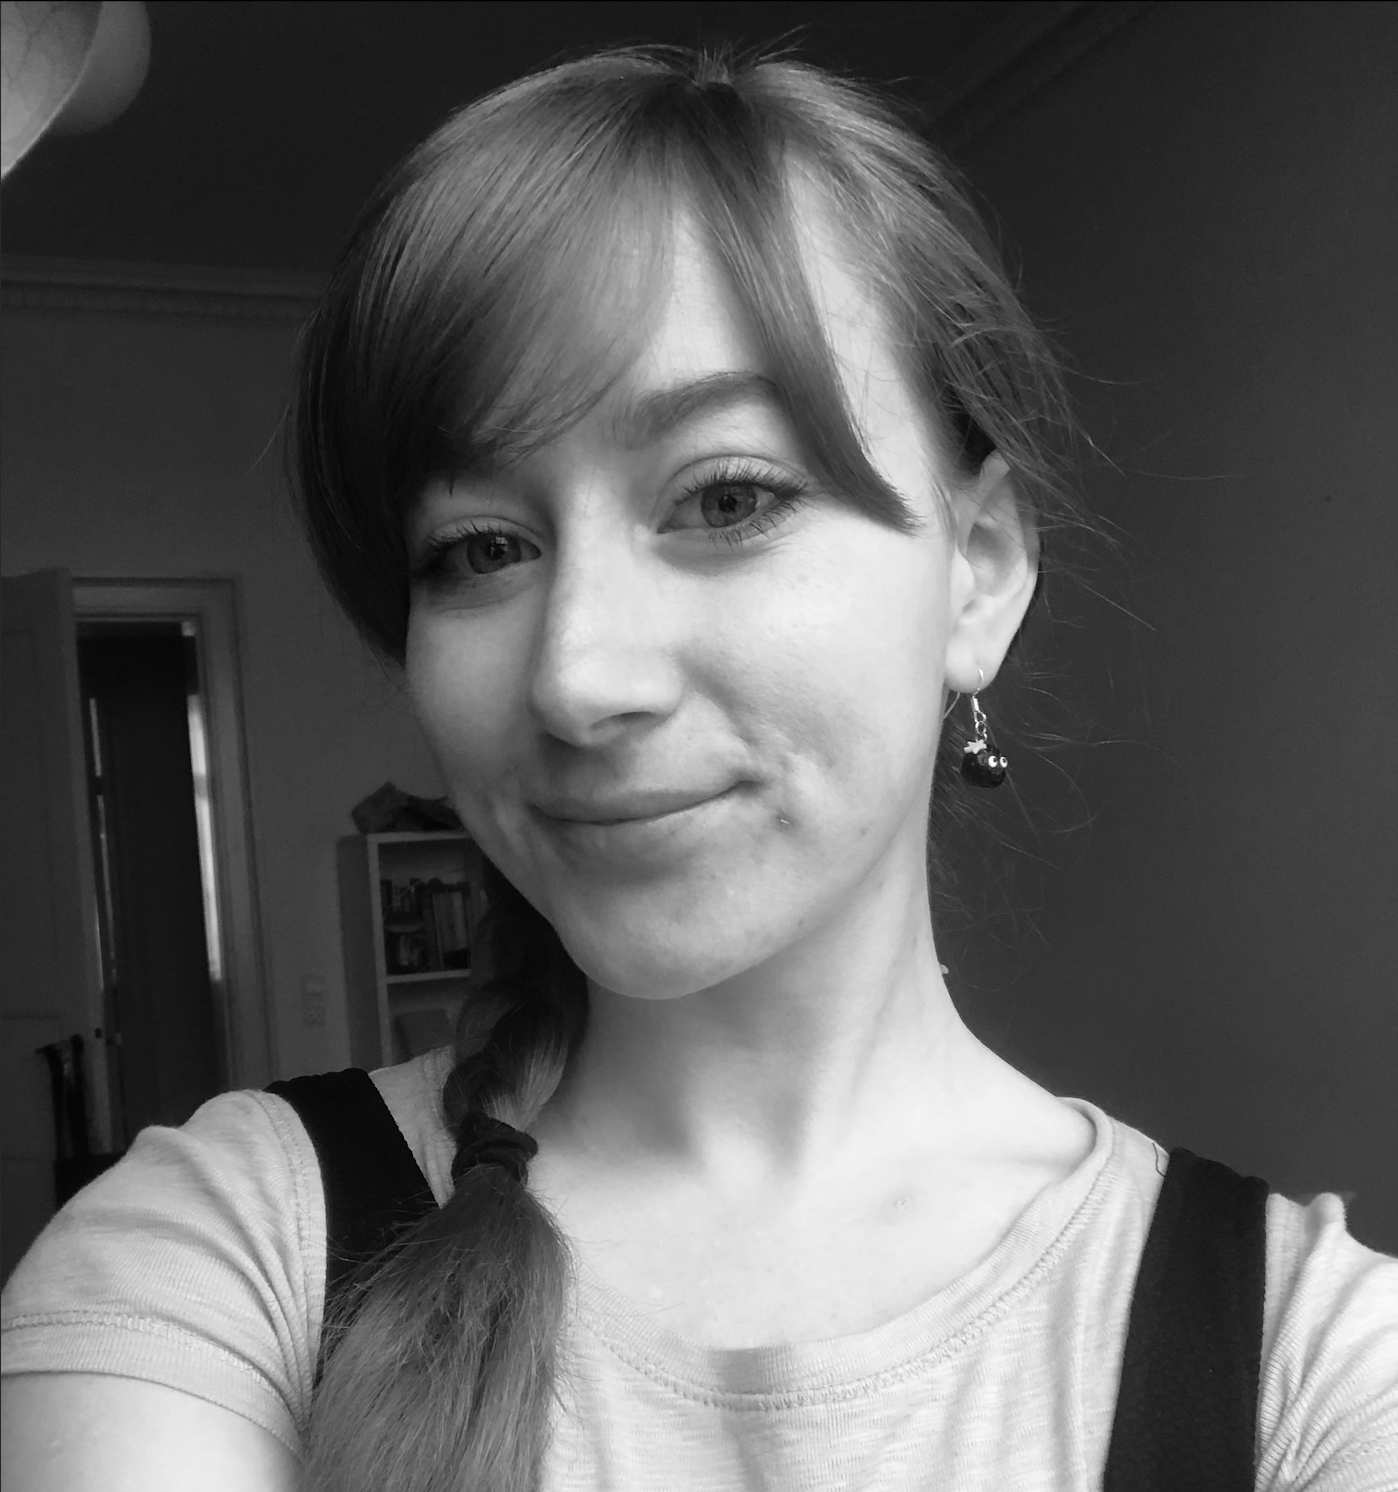
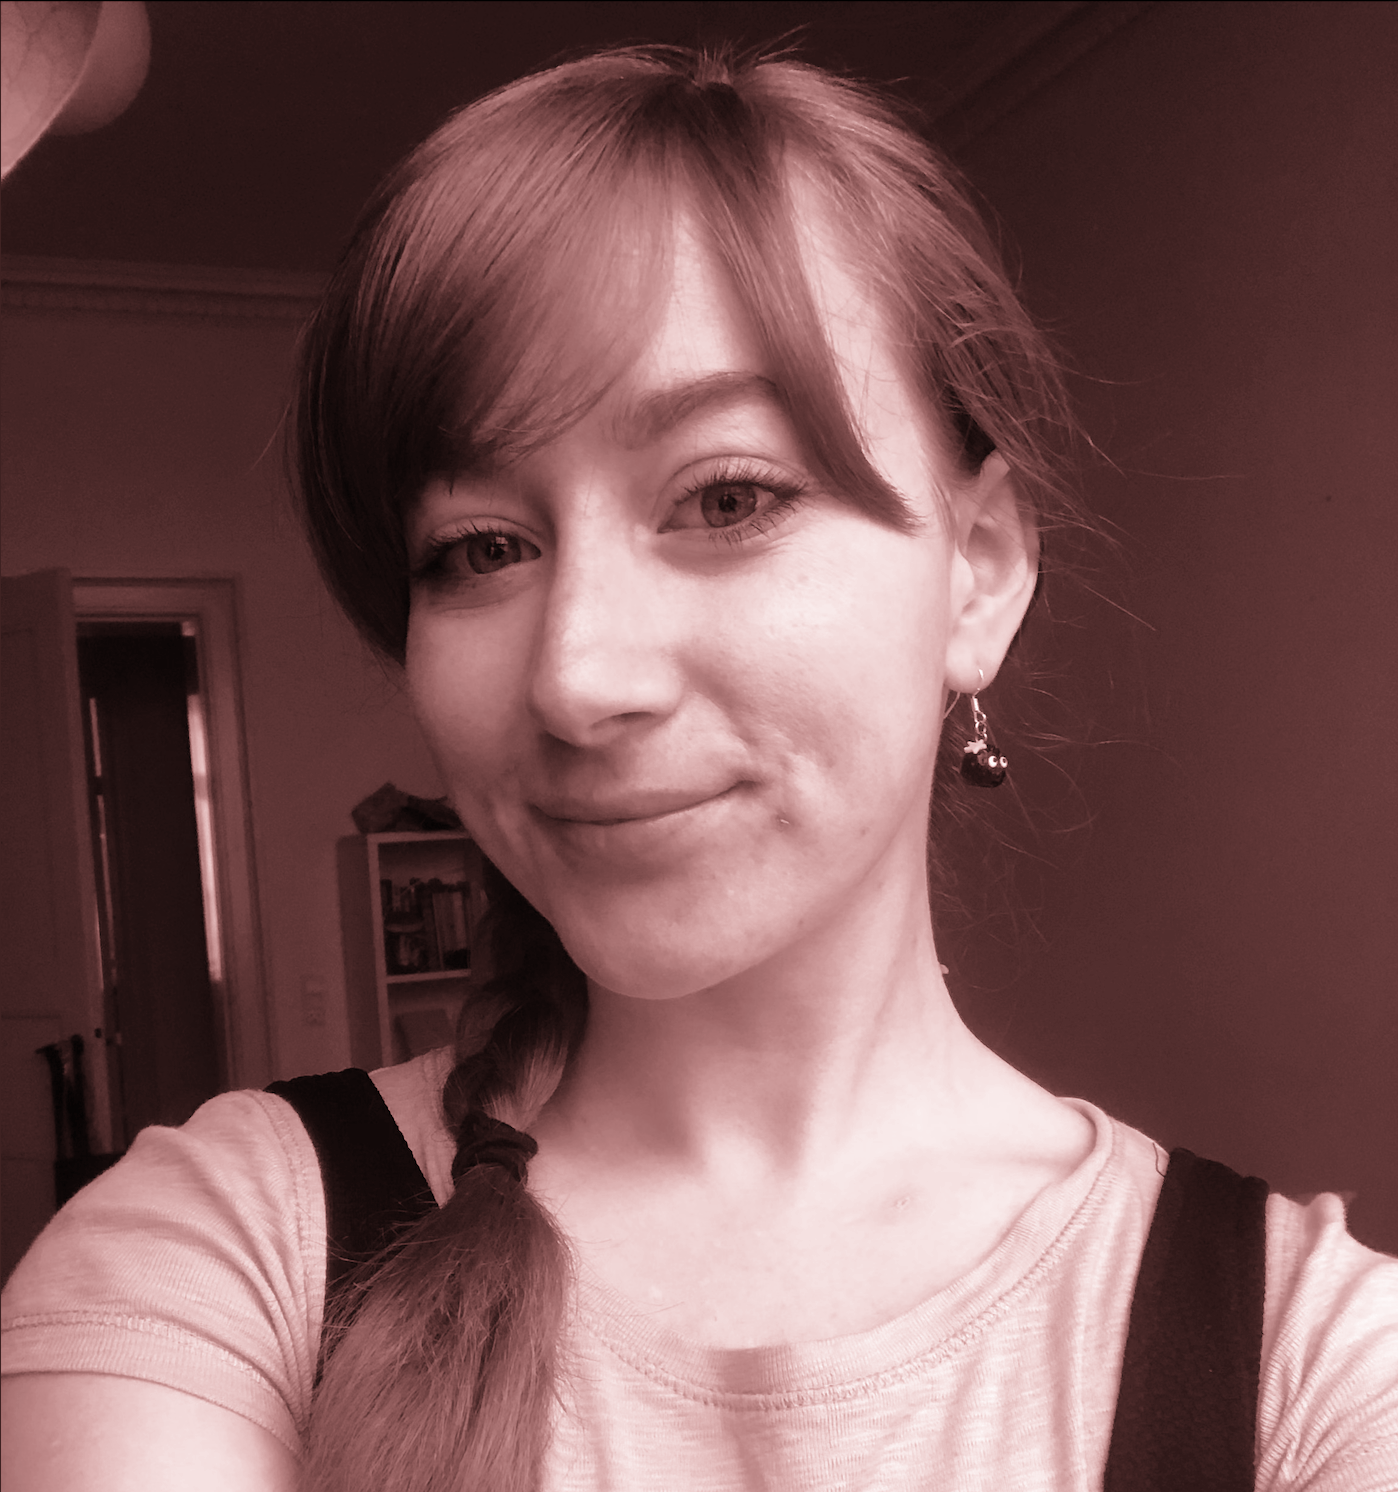
Kate photo correction members webpage

diff --git a/members.html b/members.html
@@ -73,7 +73,7 @@
 										</article>
 
 										<article>
-											<a href="#" class="image"><img src="images/members/kate_red.jpeg" alt="" /></a>
+											<a href="#" class="image"><img src="images/members/Kate_red.jpeg" alt="" /></a>
 											<h2>Katriona Gould</h2>
                                             <h3>University of Copenhagen | Copenhagen, Denmark</h3>
 											<p>Katriona (Kate) Gould is a PhD Fellow at Cosmic Dawn Center and Niels Bohr Institute at the University of Copenhagen, Denmark, supervised by Gabriel Brammer and Francesco Valentino. Her research interests involve studying curious distant red fuzzies such as quiescent galaxies, dusty galaxies, and anything else with an enticing scientific story. She is most excited about using JWST’s near-infrared capabilities to study these galaxies. Outside of work she can be found glued to her latest painting project, on the (Danish) beach or powerlifting in the gym.
